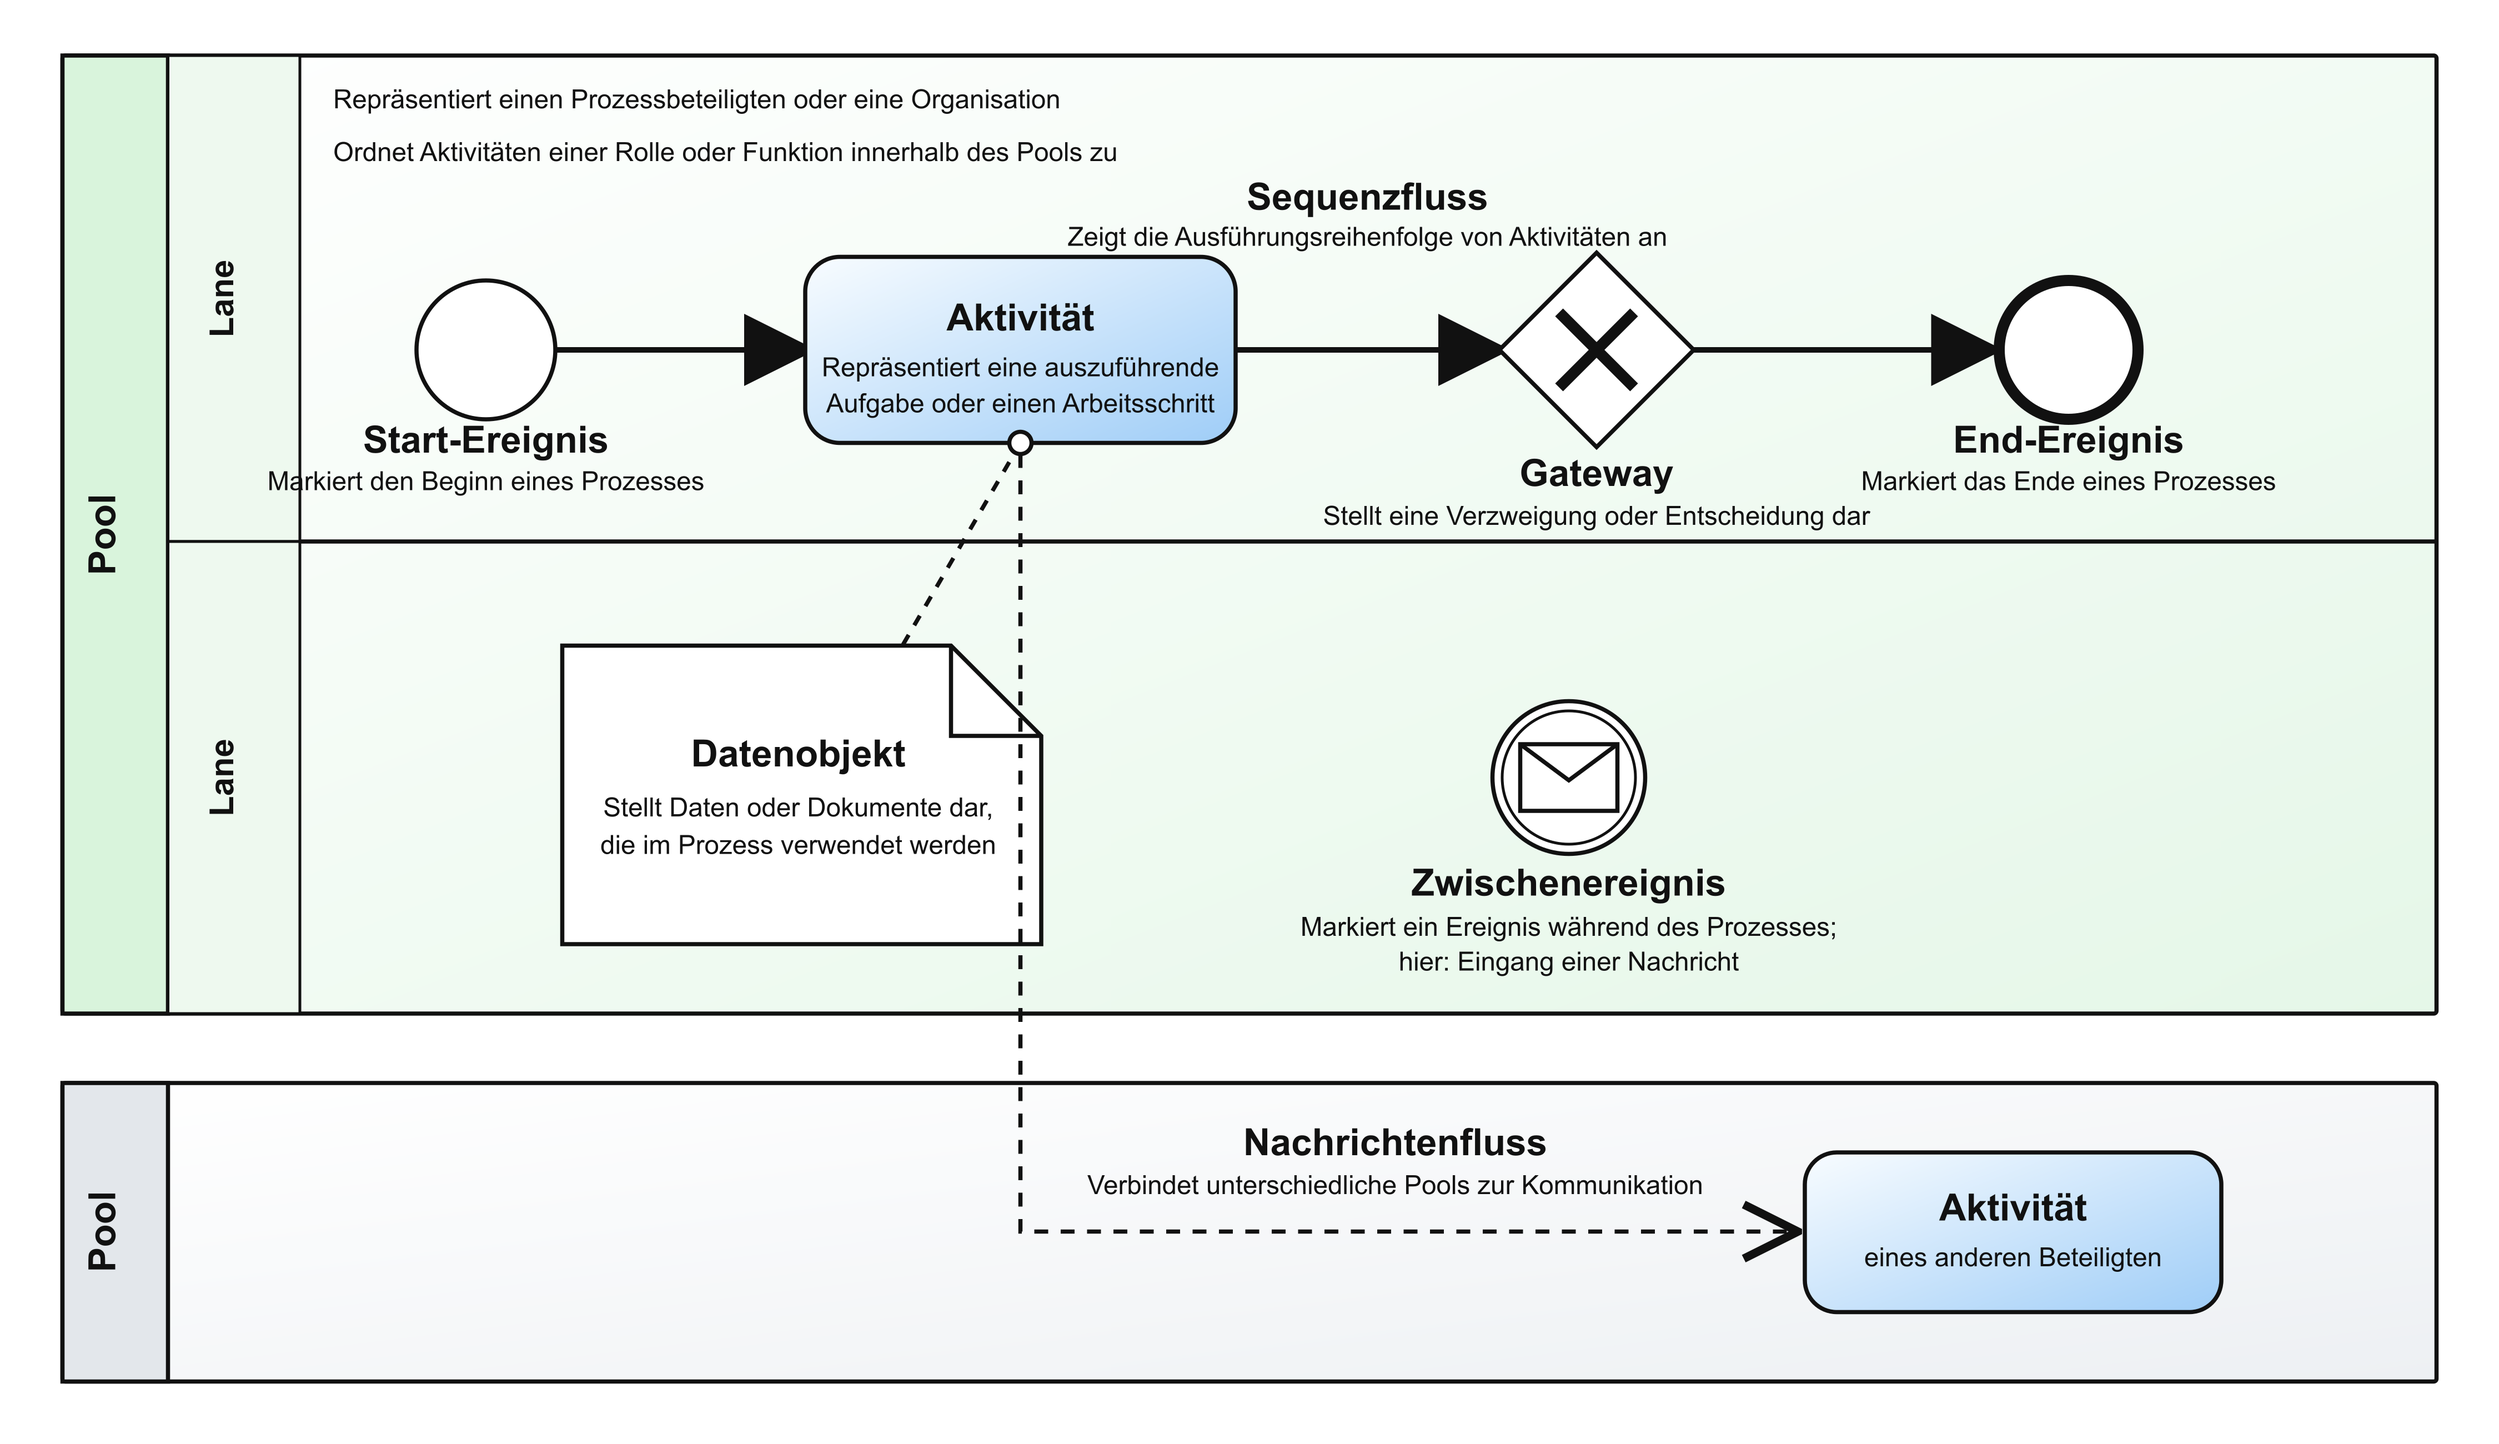
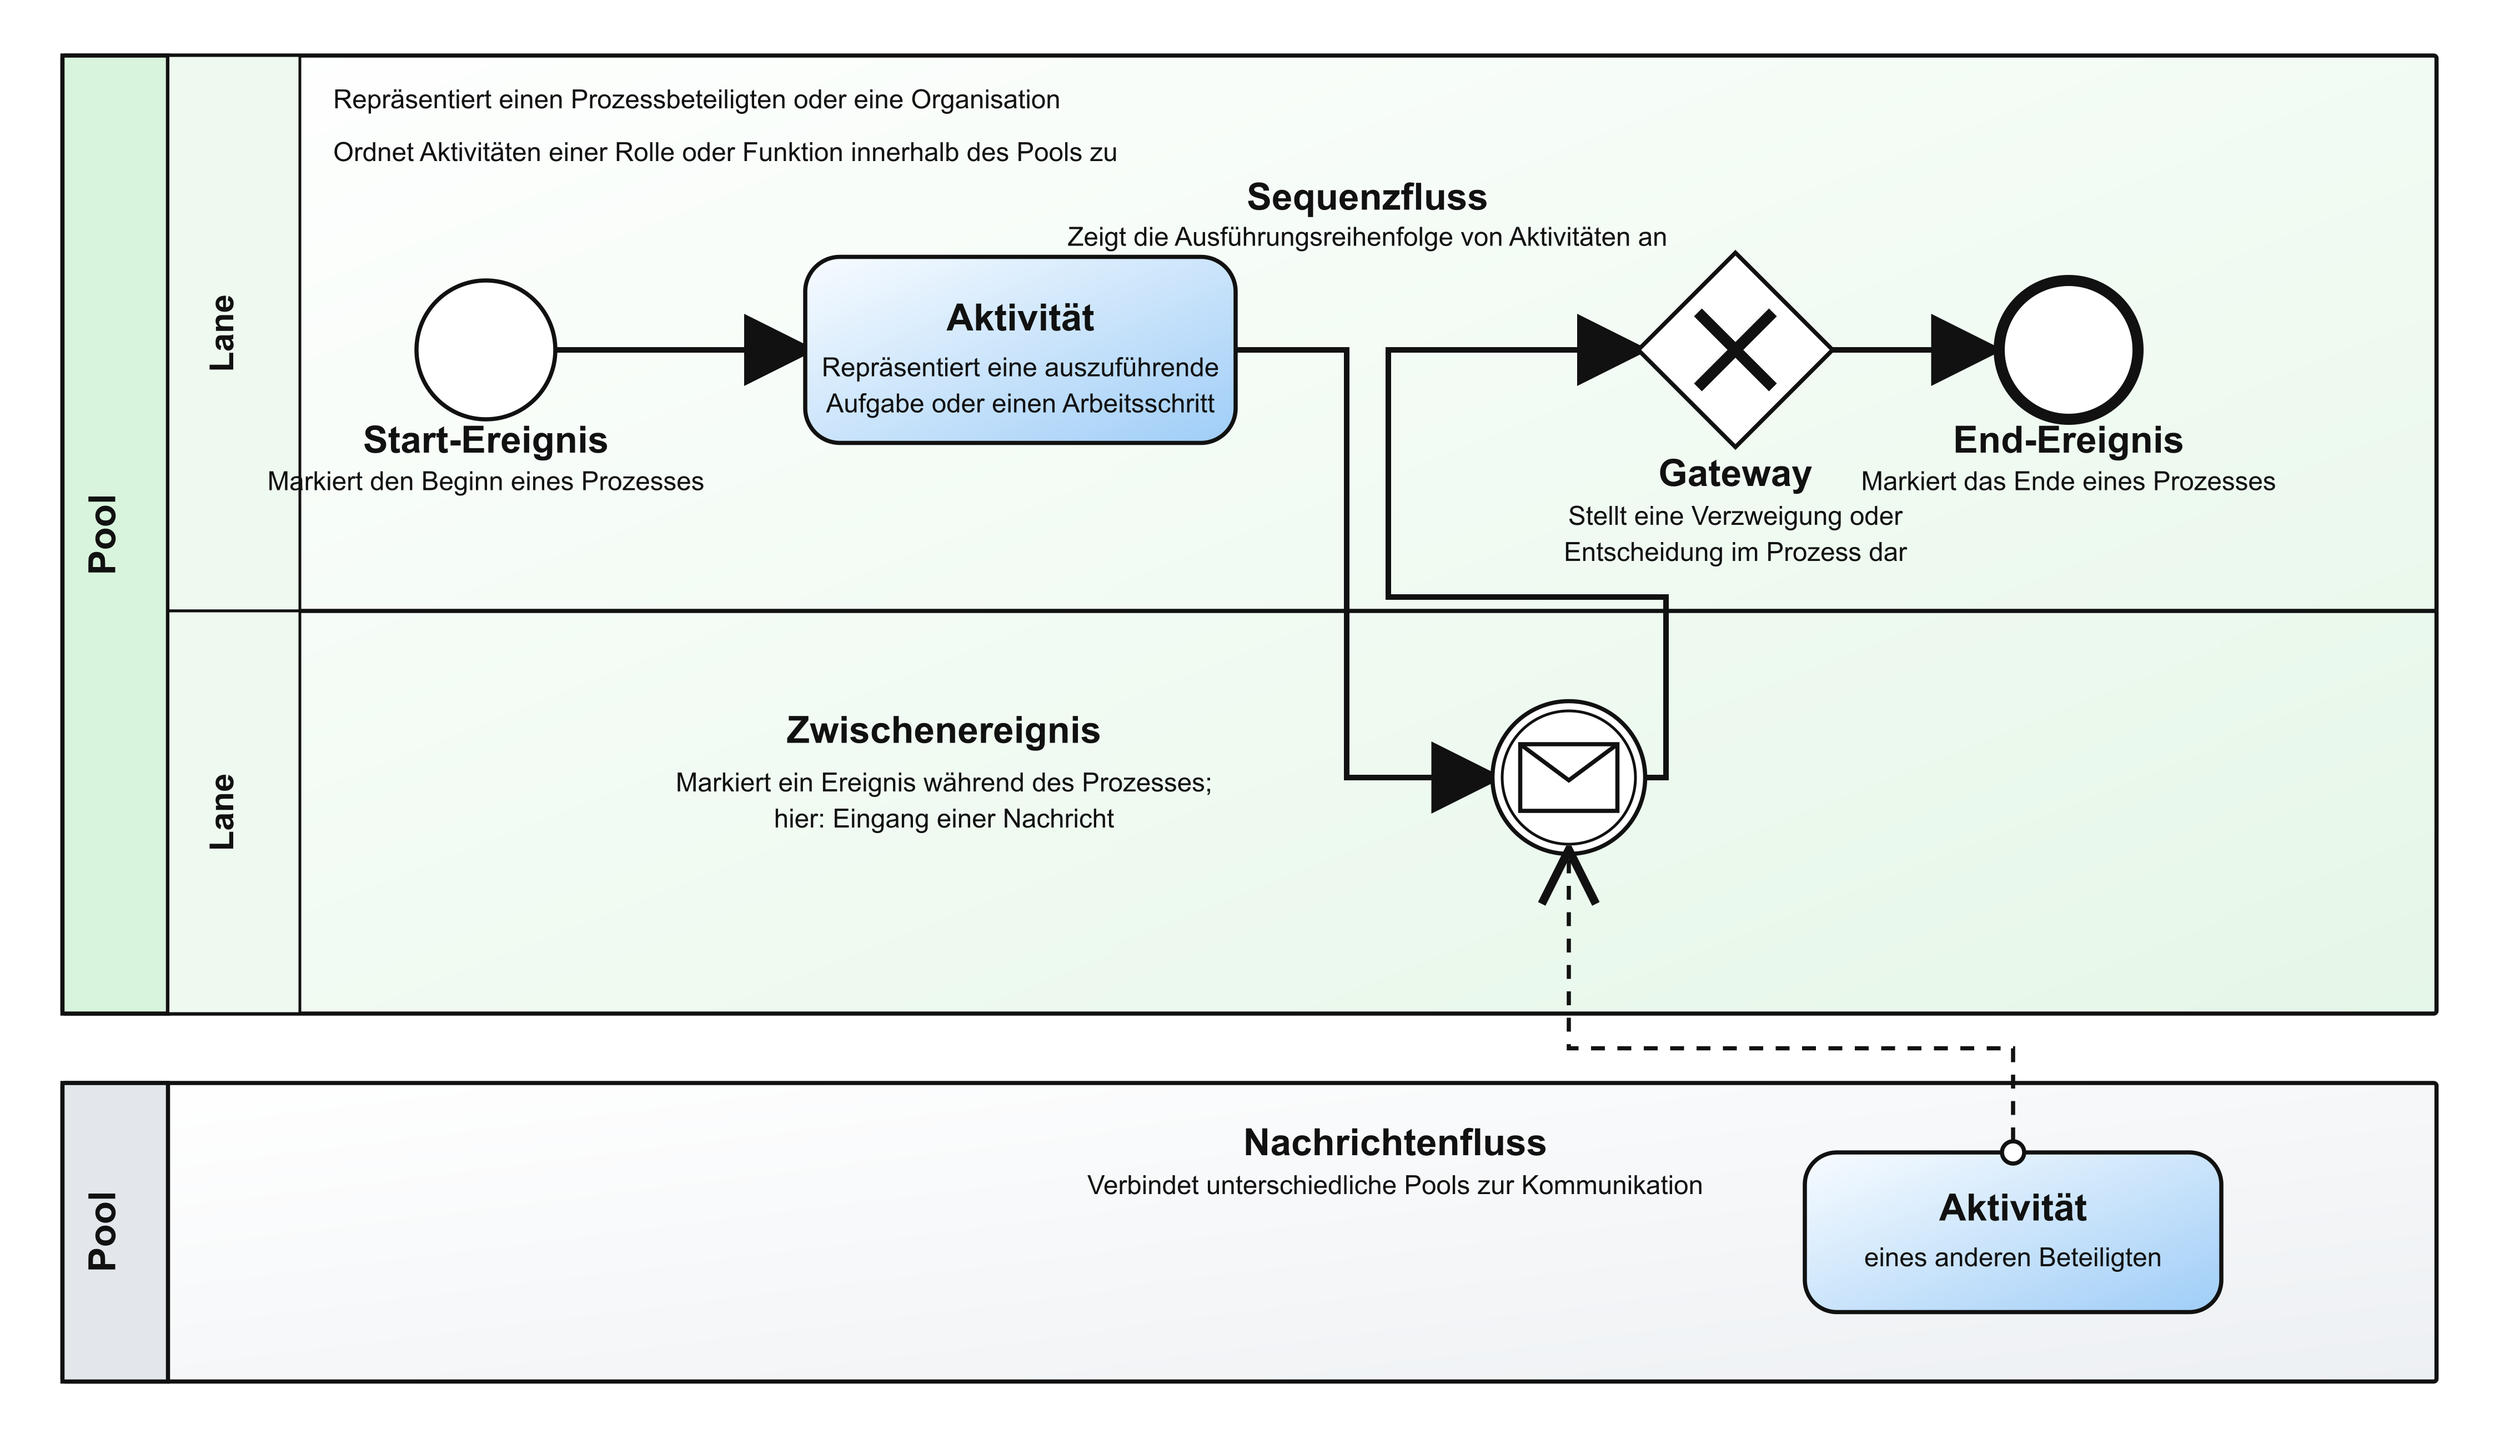
Bereinige BPMN-Elementübersicht

diff --git a/BPMN/README.md b/BPMN/README.md
@@ -7,4 +7,4 @@ Der Ordner enthält die Ergebnisse der Prozess- und Datenflussmodellierung:
 
 Identische Dubletten und ältere Benennungsstände wurden nicht in die Veröffentlichungsfassung übernommen. Die Diagrammtitel entsprechen den im Abschlussbericht und im Metadatenkatalog verwendeten Prozessbezeichnungen.
 
-Die Datei [`BPMN_Elementuebersicht.png`](Diagramme/BPMN_Elementuebersicht.png) erläutert Pool, Lane, Ereignisse, Aktivität, Gateway, Datenobjekt, Sequenzfluss und Nachrichtenfluss anhand eines abstrahierten Prozessablaufs. Die gleichnamige SVG-Datei dient als skalierbare Quelldatei.
+Die Datei [`BPMN_Elementuebersicht.png`](Diagramme/BPMN_Elementuebersicht.png) erläutert Pool, Lane, Ereignisse, Aktivität, Gateway, Sequenzfluss und Nachrichtenfluss anhand eines abstrahierten Prozessablaufs. Die gleichnamige SVG-Datei dient als skalierbare Quelldatei.
